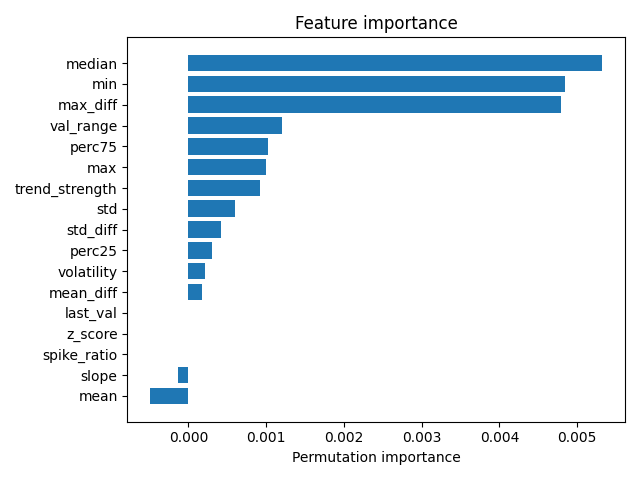
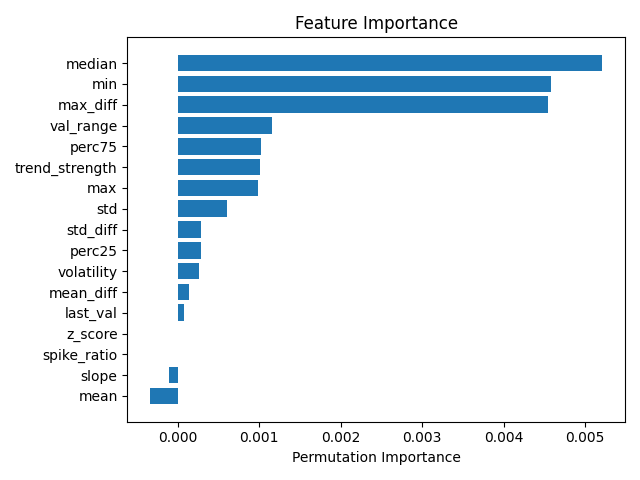
plots df converted to np to resolve warnings

diff --git a/src/plots.py b/src/plots.py
@@ -22,7 +22,7 @@ def plot_precision_recall(y_true, y_prob, save_dir):
     plt.savefig(os.path.join(save_dir, "precision_recall_curve.png"))
     plt.close()
 
-def plot_feature_importance(model, X: pd.DataFrame, y, save_dir: str):
+def plot_feature_importance(model, X_df: pd.DataFrame, y, save_dir: str):
     """
     Compute and plot permutation feature importance.
 
@@ -39,7 +39,8 @@ def plot_feature_importance(model, X: pd.DataFrame, y, save_dir: str):
     """
         
     # Use DataFrame column names for plotting
-    feature_labels = X.columns
+    feature_labels = X_df.columns
+    X = X_df.values
 
     # Compute permutation importance
     result = permutation_importance(